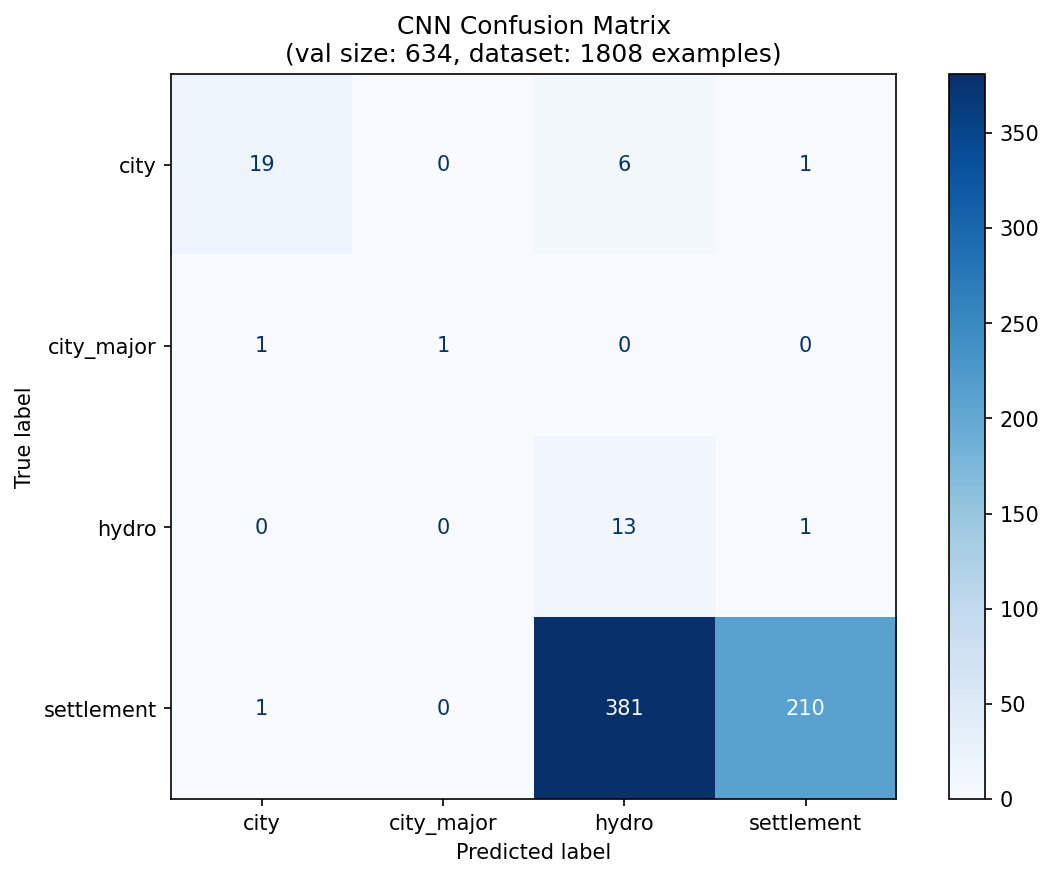
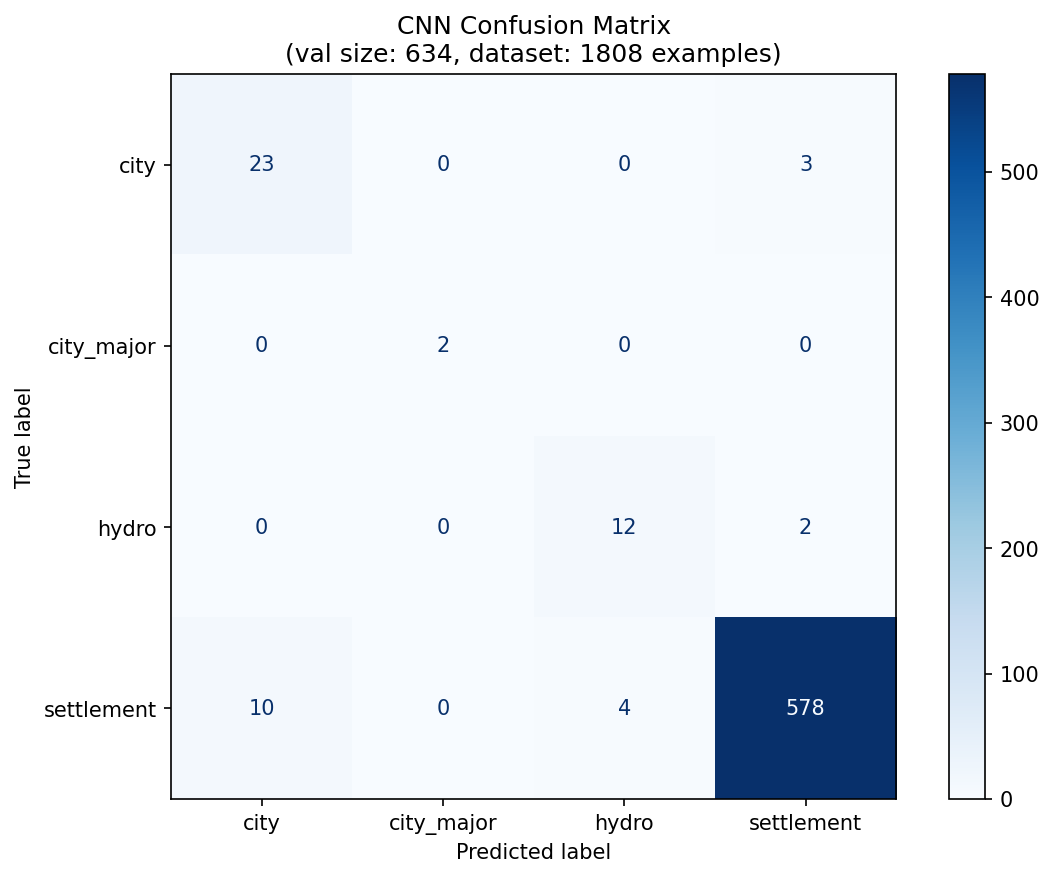
add early stopping to cnn model

diff --git a/scripts/train_cnn.py b/scripts/train_cnn.py
@@ -9,6 +9,7 @@ import matplotlib.pyplot as plt
 from sklearn.utils.class_weight import compute_class_weight
 from sklearn.metrics import classification_report, confusion_matrix, ConfusionMatrixDisplay
 from tensorflow.keras.preprocessing.image import ImageDataGenerator
+from tensorflow.keras.callbacks import EarlyStopping
 
 current_dir = os.path.dirname(os.path.abspath(__file__))
 project_root = os.path.dirname(current_dir)
@@ -119,14 +120,22 @@ def main():
     print("[INFO] Creating CNN model...")
     model = create_cnn_model(input_shape=input_shape, num_classes=num_classes)
     model.summary()
+    
+    early_stopping = EarlyStopping(
+        monitor='val_loss',
+        patience=3,
+        restore_best_weights=True,
+        verbose=1,
+    )
 
     print("[INFO] Training the model...")
     history = model.fit(
         x_train, y_train,
         validation_data=(x_val, y_val),
-        epochs=EPOCHS,
+        epochs=EPOCHS,  
         batch_size=BATCH_SIZE,
         class_weight=class_weight_dict,
+        callbacks=[early_stopping],
     )
     print("[INFO] Training finished")
 
